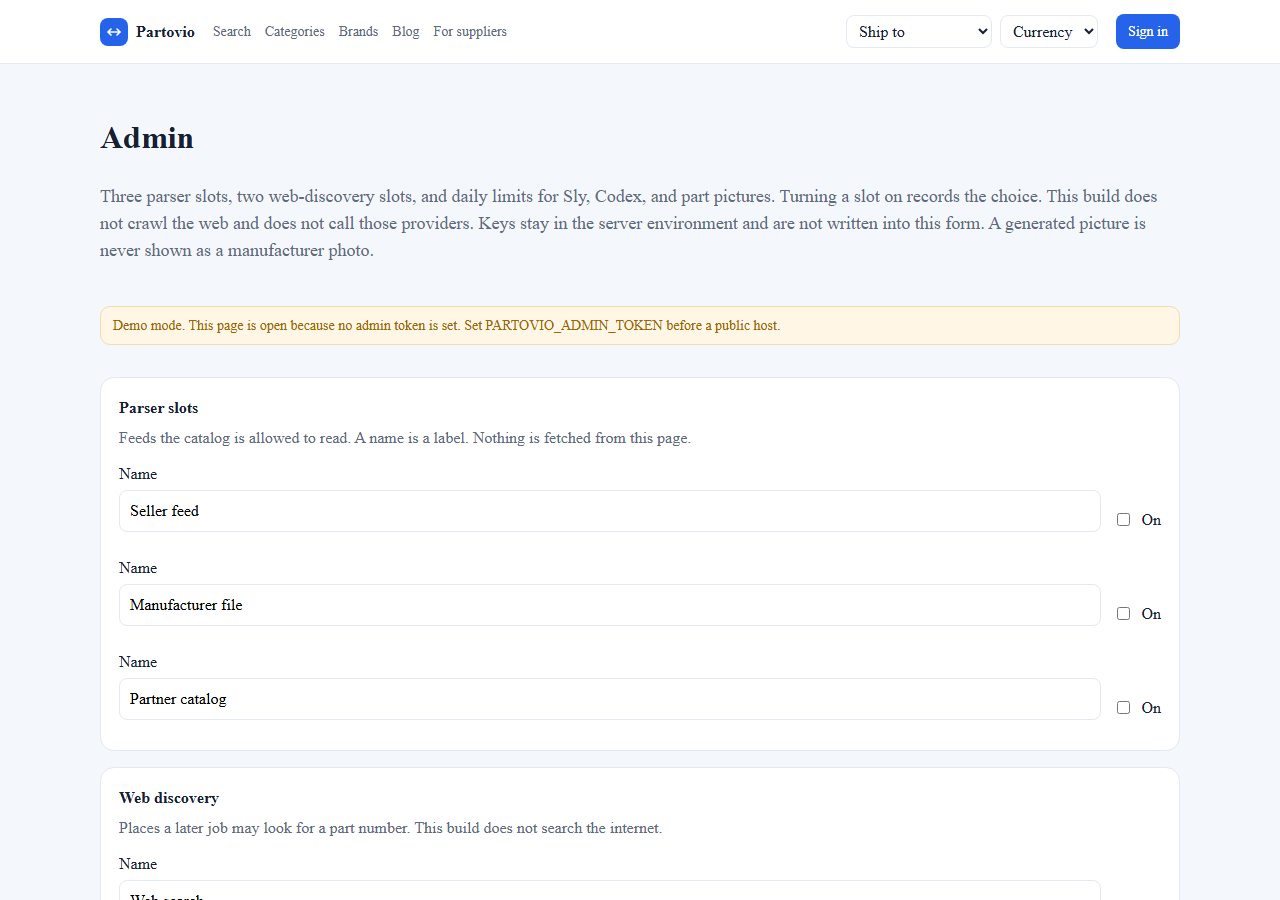
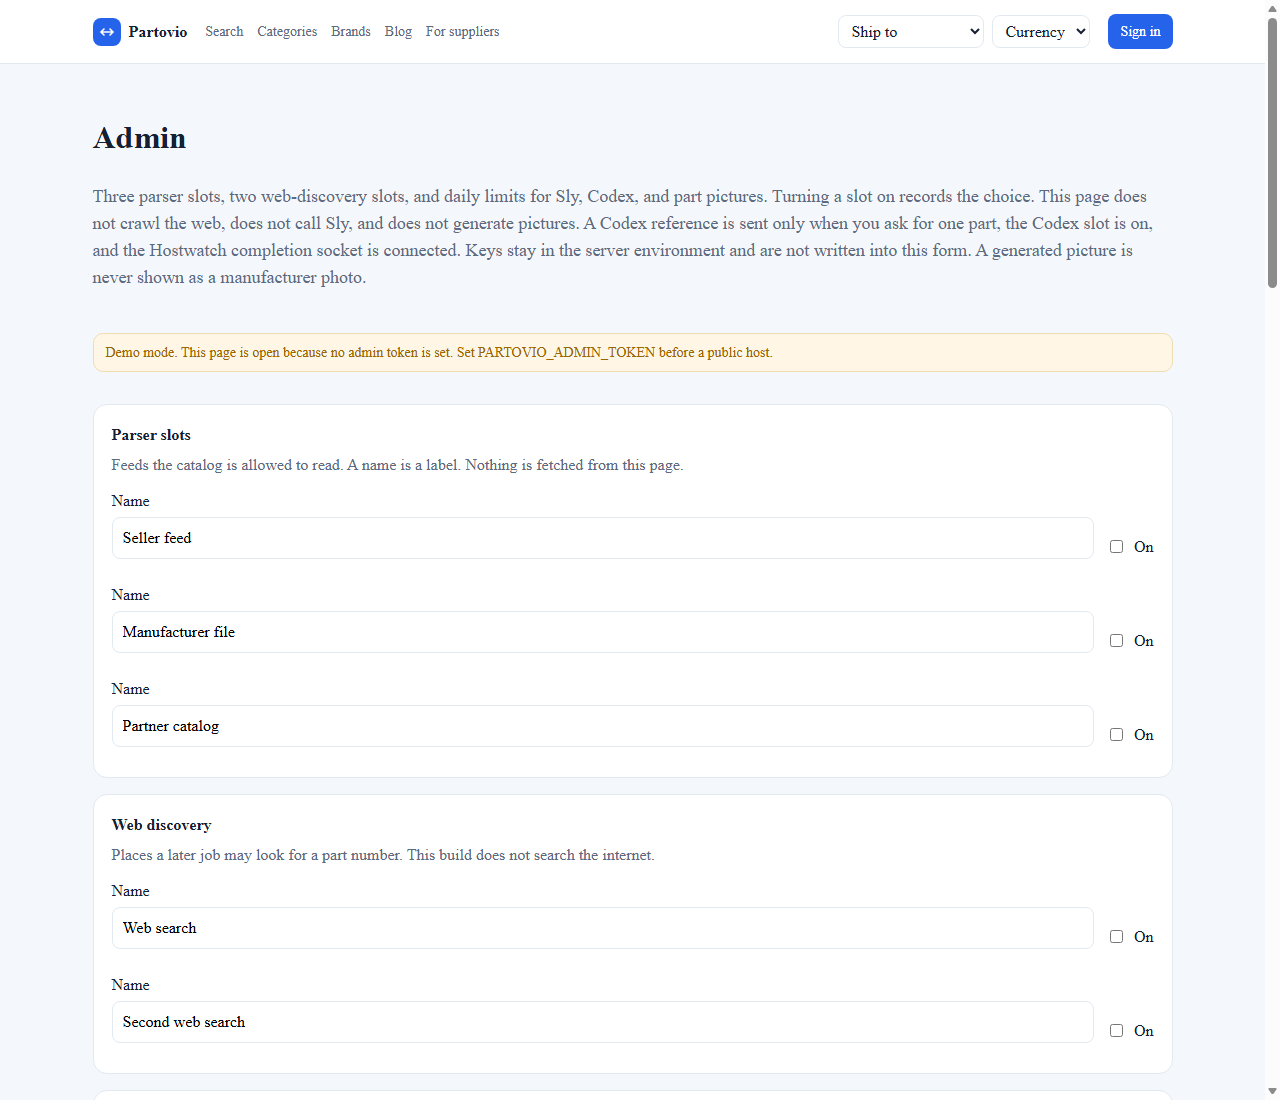
Ask for one Codex reference from the admin desk.

diff --git a/app/admin/page.tsx b/app/admin/page.tsx
@@ -1,4 +1,4 @@
-import { loadDesk, saveDesk, signIn } from "./actions";
+import { loadDesk, saveDesk, signIn, writeReference } from "./actions";
 import { adminGate, type DeskBudget, type DeskPost, type DeskSource } from "./gate";
 
 export const dynamic = "force-dynamic";
@@ -13,6 +13,14 @@ const errors: Record<string, string> = {
   bad_limit: "A daily limit is a whole number from 1 to 1000. An empty limit is stored as 10.",
   too_many_posts: "The blog holds at most 20 articles.",
   bad_desk: "The desk could not be read.",
+  login_required: "Codex needs a ChatGPT sign-in in Hostwatch.",
+  model_unavailable: "Codex is not ready. In Hostwatch, choose an available Luna model and leave the service on.",
+  offline: "The Hostwatch completion socket did not answer.",
+  not_connected: "Set PARTOVIO_AI_SOCKET. Codex is not connected.",
+  bad_reference: "Codex did not return a usable reference.",
+  daily_limit: "The Codex daily limit is used up.",
+  disabled: "Codex is off in this desk.",
+  not_found: "That product id is not in the catalog.",
 };
 
 export default async function AdminPage({ searchParams }: { searchParams: Promise<Record<string, string | undefined>> }) {
@@ -26,18 +34,33 @@ export default async function AdminPage({ searchParams }: { searchParams: Promis
       <h1>Admin</h1>
       <p className="lede note">
         Three parser slots, two web-discovery slots, and daily limits for Sly, Codex, and part pictures.
-        Turning a slot on records the choice. This build does not crawl the web and does not call those providers.
+        Turning a slot on records the choice. This page does not crawl the web, does not call Sly, and does not generate pictures.
+        A Codex reference is sent only when you ask for one part, the Codex slot is on, and the Hostwatch completion socket is connected.
         Keys stay in the server environment and are not written into this form.
         A generated picture is never shown as a manufacturer photo.
       </p>
       {params.saved === "1" && <p className="demo">Saved. The switches are recorded. Nothing was fetched.</p>}
+      {params.saved === "reference" && <p className="demo">Reference saved. It uses only the stored part record.</p>}
       {params.error && <p className="error">{errors[params.error] || "The desk was not saved."}</p>}
       {gate === "missing" && <p className="error">{errors.no_token}</p>}
       {signedOut && <SignIn />}
       {loaded?.ok === false && !signedOut && gate !== "missing" && (
         <p className="error">{loaded.status === 0 ? errors.unreachable : "The desk could not be loaded."}</p>
       )}
-      {loaded?.ok && <DeskForm desk={loaded.desk} openDemo={gate === "open"} />}
+      {loaded?.ok && (
+        <>
+          <DeskForm desk={loaded.desk} openDemo={gate === "open"} />
+          <form className="panel stack" action={writeReference}>
+            <h2>Write a reference</h2>
+            <p className="muted">One stored part. Codex sees the manufacturer, MPN, title, category, and stored description. It does not see a price, a GTIN, or a picture.</p>
+            <label className="field">
+              Product id
+              <input name="product_id" required maxLength={80} placeholder="p_…" />
+            </label>
+            <button className="primary" type="submit">Write a reference</button>
+          </form>
+        </>
+      )}
     </main>
   );
 }
@@ -107,7 +130,10 @@ function DeskForm({
       <BudgetFields
         name="codex"
         label="Codex"
-        hint="An optional second pass on the same record, with its own daily limit."
+        hint="Hostwatch runs Codex on a private completion socket. This form does not hold a key. A reference is written only from the form below, for one part, when this slot is on."
+        connectedText={desk.codex.connected
+          ? "PARTOVIO_AI_SOCKET is set. Sign-in stays in Hostwatch and is checked when you write a reference."
+          : "PARTOVIO_AI_SOCKET is empty, so a reference is refused and the budget is not spent."}
         budget={desk.codex}
       />
       <BudgetFields
@@ -163,7 +189,22 @@ function SourceFields({ prefix, index, source }: { prefix: string; index: number
   );
 }
 
-function BudgetFields({ name, label, hint, budget }: { name: string; label: string; hint: string; budget: DeskBudget }) {
+function BudgetFields({
+  name,
+  label,
+  hint,
+  budget,
+  connectedText,
+}: {
+  name: string;
+  label: string;
+  hint: string;
+  budget: DeskBudget;
+  connectedText?: string;
+}) {
+  const presence = connectedText ?? (budget.connected
+    ? "A key is present in the server environment."
+    : "No key is set, so a reservation is refused and the budget is not spent.");
   return (
     <section className="panel">
       <h2>{label}</h2>
@@ -176,9 +217,7 @@ function BudgetFields({ name, label, hint, budget }: { name: string; label: stri
         Daily limit
         <input name={`${name}_limit`} type="number" min={1} max={1000} defaultValue={budget.daily_limit || 10} />
       </label>
-      <p className="muted">
-        Used today: {budget.used_today}. {budget.connected ? "A key is present in the server environment." : "No key is set, so a reservation is refused and the budget is not spent."}
-      </p>
+      <p className="muted">Used today: {budget.used_today}. {presence}</p>
     </section>
   );
 }

diff --git a/app/admin/actions.ts b/app/admin/actions.ts
@@ -96,3 +96,31 @@ export async function saveDesk(formData: FormData) {
   }
   redirect("/admin?saved=1");
 }
+
+export async function writeReference(formData: FormData) {
+  if (!(await allowed())) redirect("/admin?error=unauthorized");
+  const id = String(formData.get("product_id") || "").trim();
+  if (!/^[A-Za-z0-9_-]{1,80}$/.test(id)) redirect("/admin?error=bad_reference");
+  let response: Response;
+  try {
+    response = await fetch(new URL(`/api/v1/admin/parts/${encodeURIComponent(id)}/reference`, apiBase()), {
+      method: "POST",
+      headers: { authorization: `Bearer ${expectedToken()}` },
+      cache: "no-store",
+      signal: AbortSignal.timeout(110000),
+    });
+  } catch {
+    redirect("/admin?error=offline");
+  }
+  if (!response.ok) {
+    let code = "offline";
+    try {
+      const body = (await response.json()) as { error?: string };
+      if (body.error && /^[a-z0-9_]+$/.test(body.error)) code = body.error;
+    } catch {
+      code = "offline";
+    }
+    redirect(`/admin?error=${code}`);
+  }
+  redirect("/admin?saved=reference");
+}

diff --git a/README.md b/README.md
@@ -28,9 +28,9 @@
 
 ### Админка
 
-![Админка: три слота парсера и начало слотов веб-поиска](docs/ui/admin.png)
+![Админка: слоты парсера и веб-поиска, справка Codex только по запросу](docs/ui/admin.png)
 
-На `/admin` задаются три слота парсера, два слота веб-поиска, дневные лимиты Sly, Codex и картинок деталей, тексты блога. Там же виден счётчик просмотров. В демо без `PARTOVIO_ADMIN_TOKEN` страница открыта. Ключи провайдеров в форму не входят. Включённый слот на этих снимках ничего не скачивает.
+На `/admin` задаются три слота парсера, два слота веб-поиска, дневные лимиты Sly, Codex и картинок деталей, тексты блога. Там же виден счётчик просмотров и отдельная форма справки по одной детали. В демо без `PARTOVIO_ADMIN_TOKEN` страница открыта. Ключи Sly и картинок в форму не входят, и эти слоты ничего не вызывают. Codex ходит в сокет Hostwatch только когда оператор просит справку, слот включён и сокет задан. На снимке этого вызова нет.
 
 ## Локально
 
